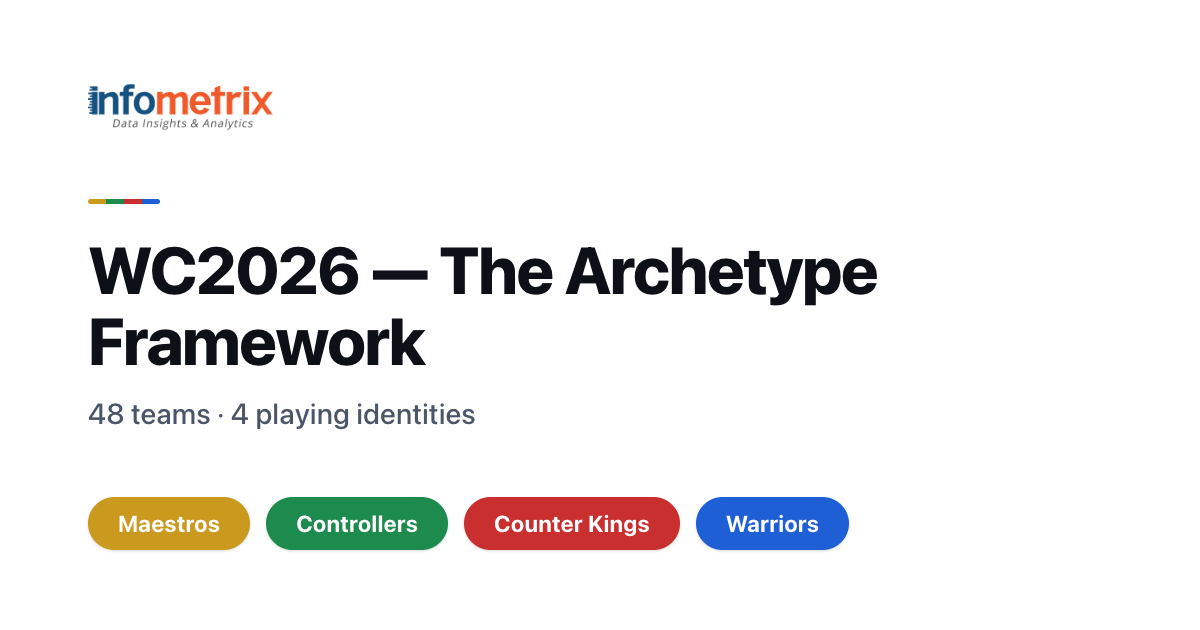
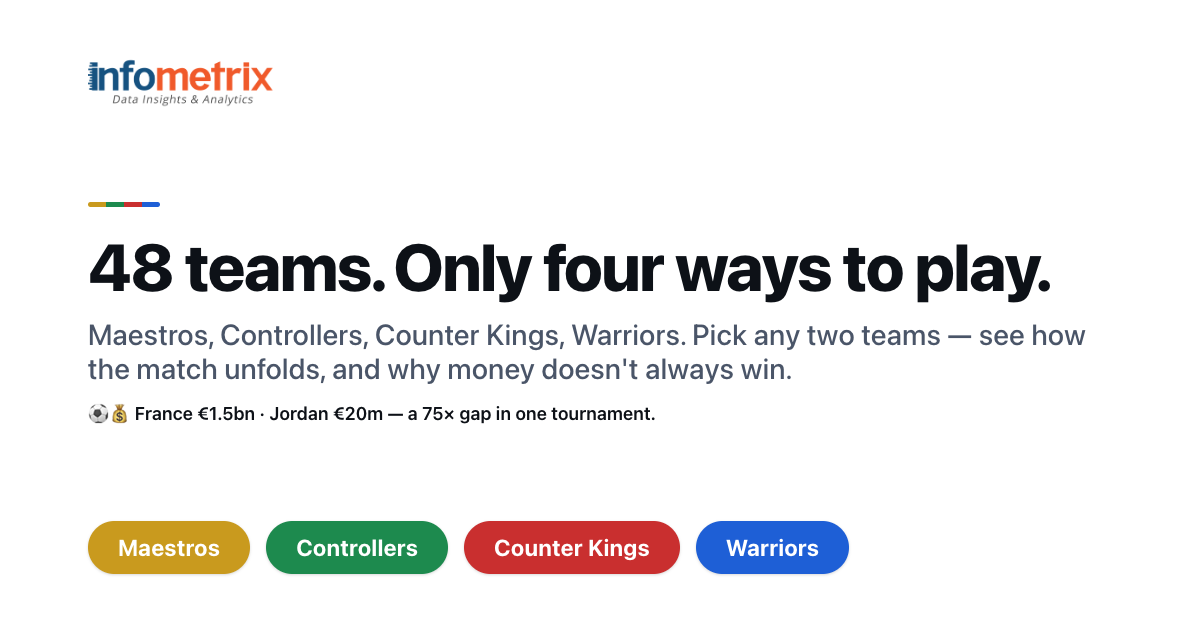
v1.4: share card — four ways to play + budget stat line + emoji

diff --git a/index.html b/index.html
@@ -3,9 +3,9 @@
 <head>
 <meta charset="UTF-8">
 <meta name="viewport" content="width=device-width, initial-scale=1.0">
-<title>WC2026 — The Archetype Framework</title>
-<meta property="og:title" content="WC2026 — The Archetype Framework">
-<meta property="og:description" content="Built like a model, not a pundit's list: 48 teams classified from qualifying statistics, tactical analysis, and 1,245 verified player records — every classification traced to data, every uncertainty flagged.">
+<title>48 teams. Only four ways to play.</title>
+<meta property="og:title" content="48 teams. Only four ways to play.">
+<meta property="og:description" content="Maestros, Controllers, Counter Kings, Warriors. Pick any two teams — see how the match unfolds, and why money doesn't always win. ⚽️💰 Squad values: Transfermarkt.">
 <meta property="og:type" content="website">
 <meta property="og:url" content="https://infometrix-co.github.io/wc2026/">
 <meta property="og:image" content="https://infometrix-co.github.io/wc2026/og-image.png">